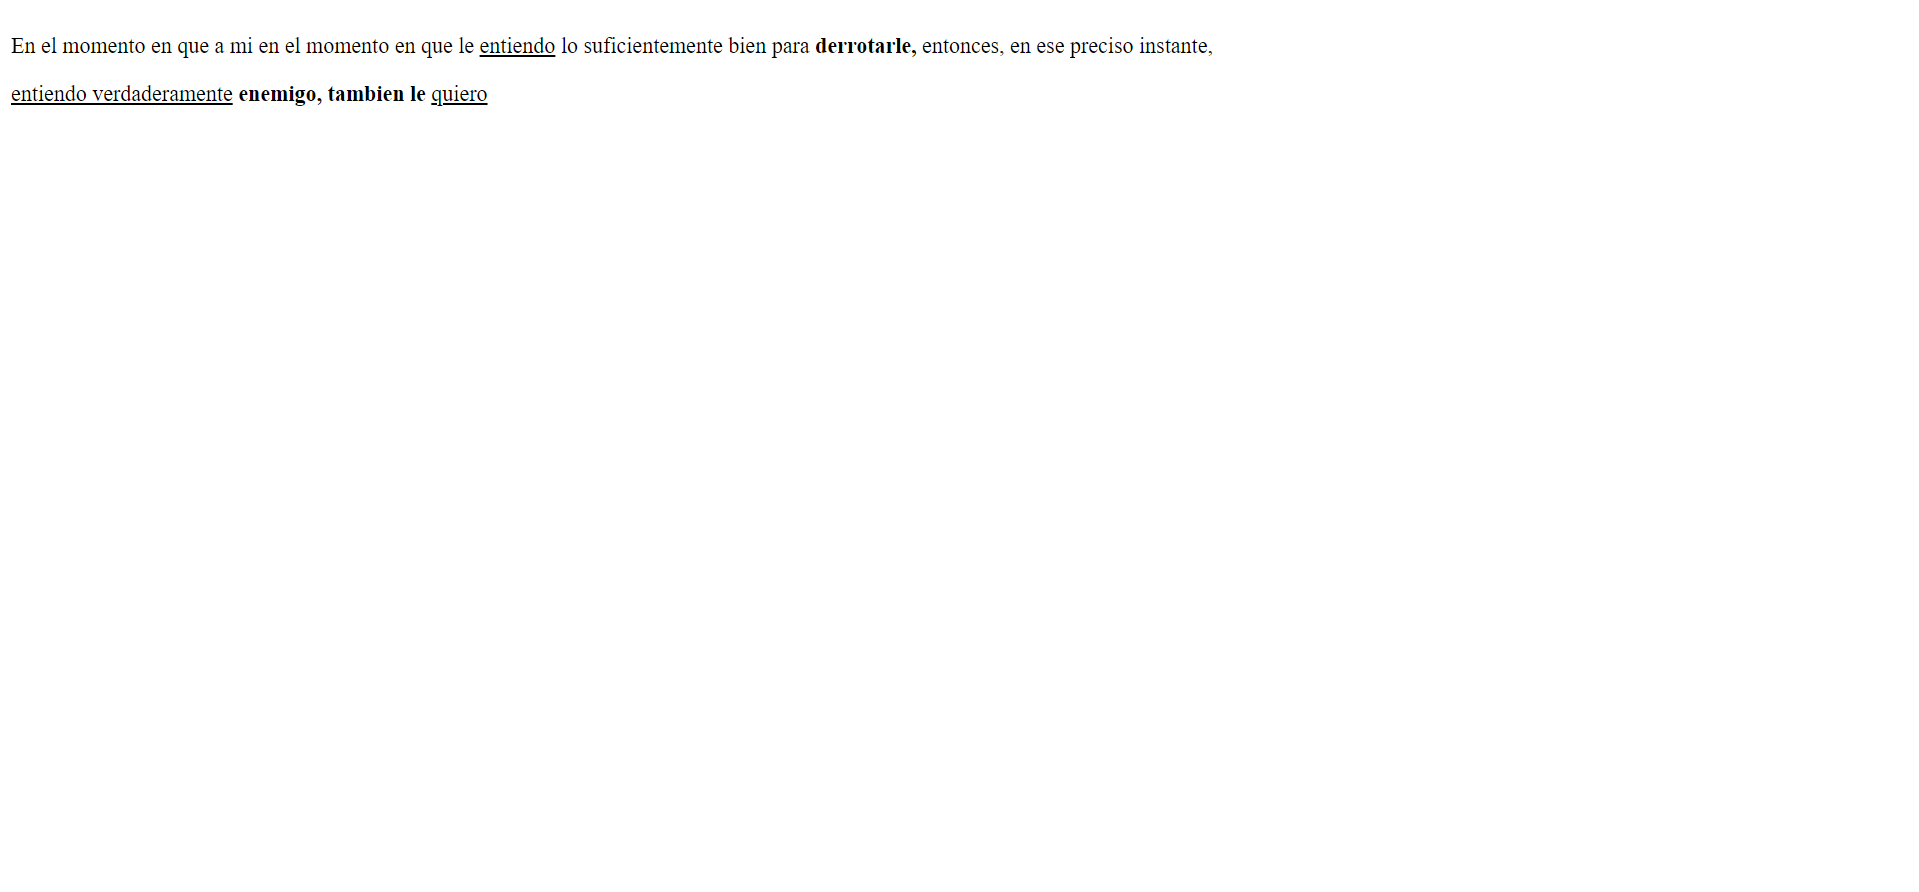
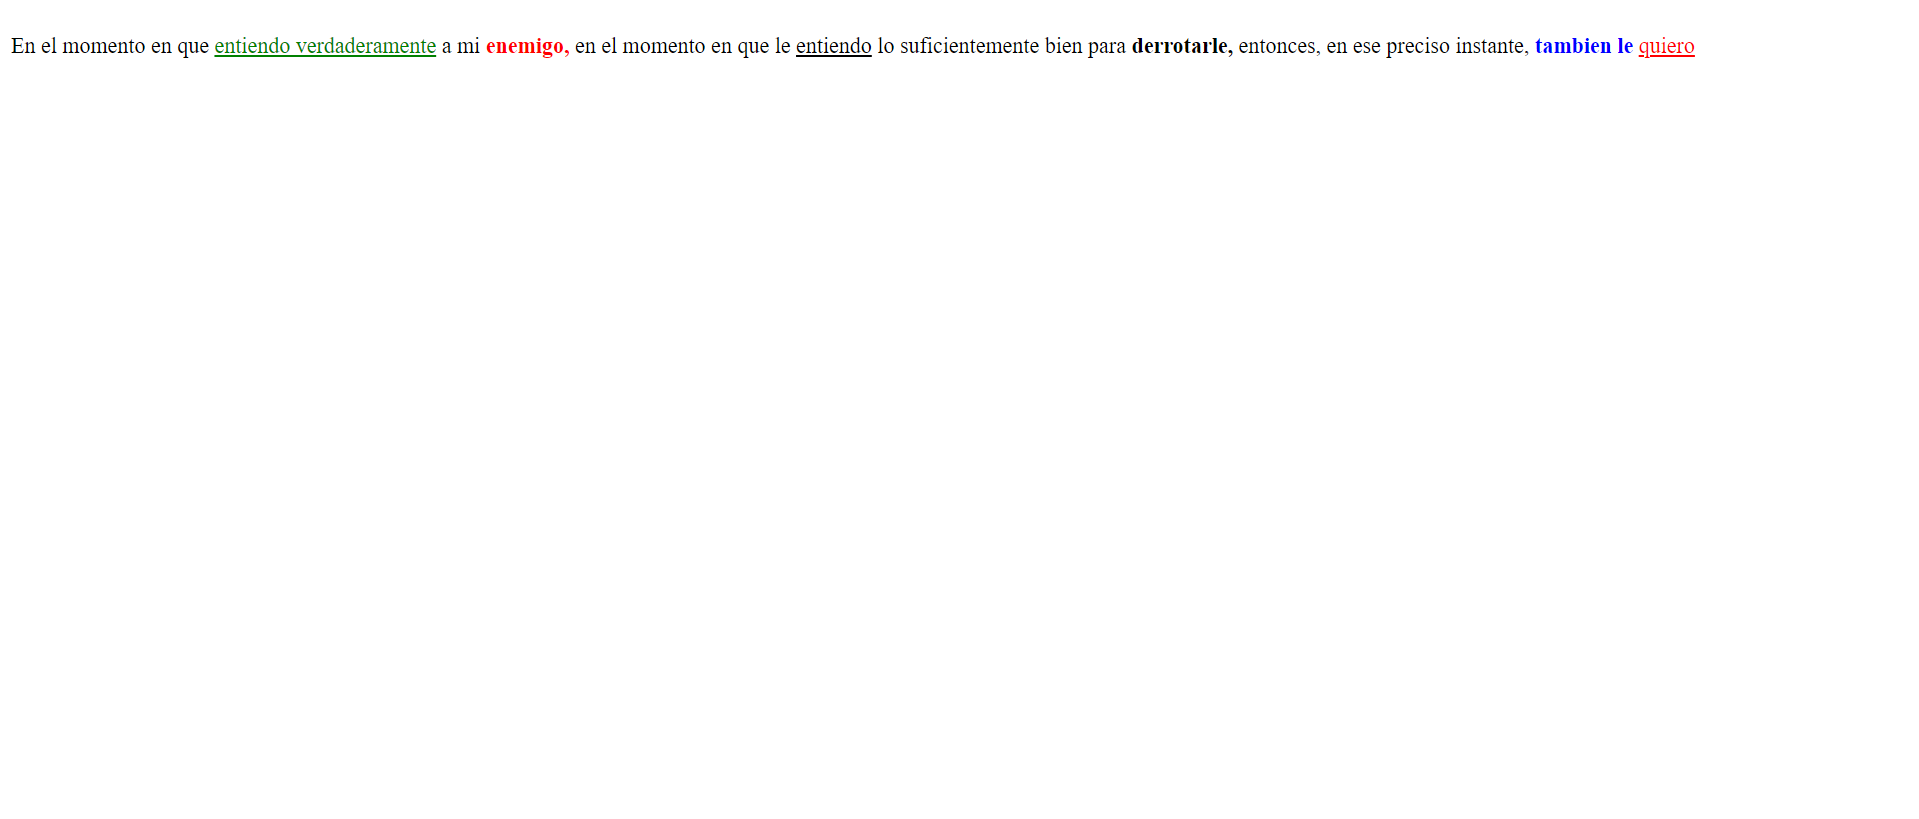
taller 9

Changed region(s): [[0.0, 0.0305, 0.8916, 0.1221]]

diff --git a/punto-5/numero5.html b/punto-5/numero5.html
@@ -5,7 +5,7 @@
     <meta charset="UTF-8">
     <meta name="viewport" content="width=device-width, initial-scale=1.0">
     <title>numero 5</title>
-    <link rel="stylesheet" href="file:///C:/Users/danie/OneDrive/Documentos/TALLER/punto-5/numero5.html" type="text/css"  charset="utf-8"/>
+    <link rel="stylesheet" href="./styles/style-numero5.css">
 </head>
 
 <body>
@@ -14,22 +14,19 @@
     <div class=" color-black">
         <p>
             <span>En el momento en que</span>
+            <u class="text-green">entiendo verdaderamente</u>
             <span>a mi</span>
+            <b class="text-red">enemigo,</b>
             <span>en el momento en que le</span>
-            <u>entiendo</u>
+            <u class="text-black">entiendo</u>
             <span>lo suficientemente bien para</span>
-            <strong>derrotarle,</strong>
+            <strong class="letra grande">derrotarle,</strong>
             <span>entonces, en ese preciso instante,</span>
+            <strong class="text-blue">tambien le</strong>
+            <u class="text-red">quiero</u>
         </p>
     </div>
-    <p>
-    <div class="text-colors">
-        <u>entiendo verdaderamente</u>
-        <b>enemigo,</b>
-        <strong>tambien le</strong>
-        <u>quiero</u>
-    </div>
-    </p>
+
 </body>
 
 </html>

diff --git a/punto-9/numero9.html b/punto-9/numero9.html
@@ -1,0 +1,47 @@
+<!DOCTYPE html>
+<html lang="en">
+
+<head>
+    <meta charset="UTF-8">
+    <meta name="viewport" content="width=device-width, initial-scale1.0">
+    <title>numero9</title>
+    <link rel="stylesheet" href="./styles/style-numero9.css">
+</head>
+
+<body>
+
+
+
+
+
+    <table>
+
+        <tr>
+            <th class="text-red">Edad</th>
+            <th class="text-rojo">Peso</th>
+        </tr>
+        <tr>
+            <td class="columna">40</td>
+            <td class="columna">78</td>
+        <tr>
+
+
+        <tr>
+
+            <td class="columna">53</td>
+            <td class="columna">76</td>
+        </tr>
+
+        <tr>
+            <td colspan="2" class="paragraph">En el momento en que entiendo verdaderamente
+                a mi enemigo,en el momento en que entiendo
+                lo suficientemente bien como para derrotarle,
+                entonces,en ese preciso instante,tambien le quiero.
+            </td>
+
+        </tr>
+    </table>
+
+</body>
+
+</html>

diff --git a/punto-6/numero6.html b/punto-6/numero6.html
@@ -4,24 +4,24 @@
     <meta charset="UTF-8">
     <meta name="viewport" content="width=device-width, initial-scale=1.0">
     <title>numero 6</title>
-    <link rel="stylesheet" href="file:///C:/Users/danie/OneDrive/Documentos/TALLER/punto-6/numero6.html"  type="text/css"  charset="utf-8"/>
+    <link rel="stylesheet" href="./styles/style-numero6.css">
 </head>
 <body>
    <p>
     <h1>
-    <strong>Enlaces. link and hover</strong>
+    <strong class="negrilla-black">Enlaces. link and hover</strong>
     </h1>
    </p> 
    
    <p>
     <h2>
-        <u>Ir a Marca</u>
+        <u class="subrayado-amarillo">Ir a Marca</u>
     </h2>
    </p>
 
    <p>
     <h3>
-        <u>Ir a AS</u>
+        <u class="subrayado-morado">Ir a AS</u>
     </h3>
    </p>
   

diff --git a/punto-7-8/numero7-8.html b/punto-7-8/numero7-8.html
@@ -4,14 +4,14 @@
     <meta charset="UTF-8">
     <meta name="viewport" content="width=device-width, initial-scale=1.0">
     <title>numero7-8</title>
-    <link rel="stylesheet" href="file:///C:/Users/danie/OneDrive/Documentos/TALLER/punto-7-8/numero7-8.html" type="text/css"  charset="utf-8"/>
+    <link rel="stylesheet" href="./styles/style-numero7-8.css">
 </head>
 <body>
     <header>
       <nav>
         <ul>
           <il>
-            <a>Inicio</a>
+            <a class="text">Inicio</a>
           </il>  
           <il>
             <a>¿Quienes Somos?</a>

diff --git a/punto-4/numero4.html b/punto-4/numero4.html
@@ -4,11 +4,11 @@
     <meta charset="UTF-8">
     <meta name="viewport" content="width=device-width, initial-scale=1.0">
     <title>numero 4</title>
-    <link rel="stylesheet" href="file:///C:/Users/danie/OneDrive/Documentos/TALLER/punto-4/numero4.html" type="text/css"  charset="utf-8"/>
+    <link rel="stylesheet" href="./styles/style-numero4.css">
 </head>
 <body>
-    <h2>Soy Azul</h2>
-    <h3>Soy Rojo</h3>
+    <h2 class="text-azul">Soy Azul</h2>
+    <h3 class="text-rojo">Soy Rojo</h3>
   
 </body>
 </html>

diff --git a/punto-5/styles/style-numero5.css b/punto-5/styles/style-numero5.css
@@ -1,24 +1,22 @@
-  color-black{
-    color: black;
+.text-green {
+  color: green;
 }
- 
-    text-colors {
-    color: green;
-    color: red;
-    color: blue;
-    color: red;
- }
- section {
-    display: flex;
-    justify-content: center;
-    align-items: center;
-    gap: 50px;
 
-    width: 800px;
-    height: 500px;
-    padding: 20px;
+.text-red {
+  color: red;
 }
-   
+
+.text-black {
+  color: black;
+}
+
+.text-blue {
+  color: blue;
+}
+
+.text-red {
+  color: red;
+}
 
 
 

diff --git a/punto-9/styles/style-numero9.css b/punto-9/styles/style-numero9.css
@@ -1,0 +1,29 @@
+body {
+    margin: 0px;
+}
+
+table{
+    background: yellow;
+    border-collapse: collapse;
+    border-top: 1px dotted black;
+    border-right: 1px dotted black;
+    border-left: 1px dotted black;
+}
+
+.text-red {
+    color: red;
+    border-bottom: 20px;
+}
+
+.text-rojo {
+  color: red;
+
+}
+
+.columna{
+    border: 1px dotted black;
+}
+
+.paragraph{
+    border-bottom: 2px dashed red;
+}

diff --git a/punto-4/styles/style-numero4.css b/punto-4/styles/style-numero4.css
@@ -1,26 +1,10 @@
-h2 {
+.text-azul {
     color: blue;
 }
 
-div h2 {
-    color: blue;
-}
-
-h3 {
+.text-rojo {
     color: red;
 }
 
-div h3 {
-    color: red;
-}
 
-section {
-    display: flex;
-    justify-content: center;
-    align-items: center;
-    gap: 50px;
 
-    width: 800px;
-    height: 500px;
-    padding: 20px;
-}

diff --git a/punto-7-8/styles/style-numero7-8.css b/punto-7-8/styles/style-numero7-8.css
@@ -9,11 +9,25 @@ header {
     gap: 40px;
 
     width: 800px;
-    height: 500px;
+    height: 70px;
     padding: 10px;
     background-color: blueviolet;
 }
 
 header {
     cursor: pointer;
+}
+
+a{
+    color: #fff;
+}
+
+.text{
+    background: blue;
+    padding: 20px;
+}
+
+ul{
+    display:flex;
+    gap: 20px;
 }

diff --git a/punto-6/styles/style-numero6.css b/punto-6/styles/style-numero6.css
@@ -1,14 +1,11 @@
-h1{
+.negrilla-black {
     color: black;
-    font-style: normal;
 }
 
-h2{
-    color:yellow;
-    font-style: normal;
+.subrayado-amarillo{
+    color: yellow;
 }
 
-h3{
+.subrayado-morado {
     color: mediumpurple;
-    font-style: normal;
 }

diff --git a/README.md b/README.md
@@ -35,7 +35,9 @@ alt="CSS">
 <img src="./punto-7-8/public/images/punto7-8.png" 
 alt="CSS">
 
-
+<h2>Punto 9:CSS</h2>
+<img src="./punto-9/public/images/punto9.png"
+alt="CSS">
 
 
 
